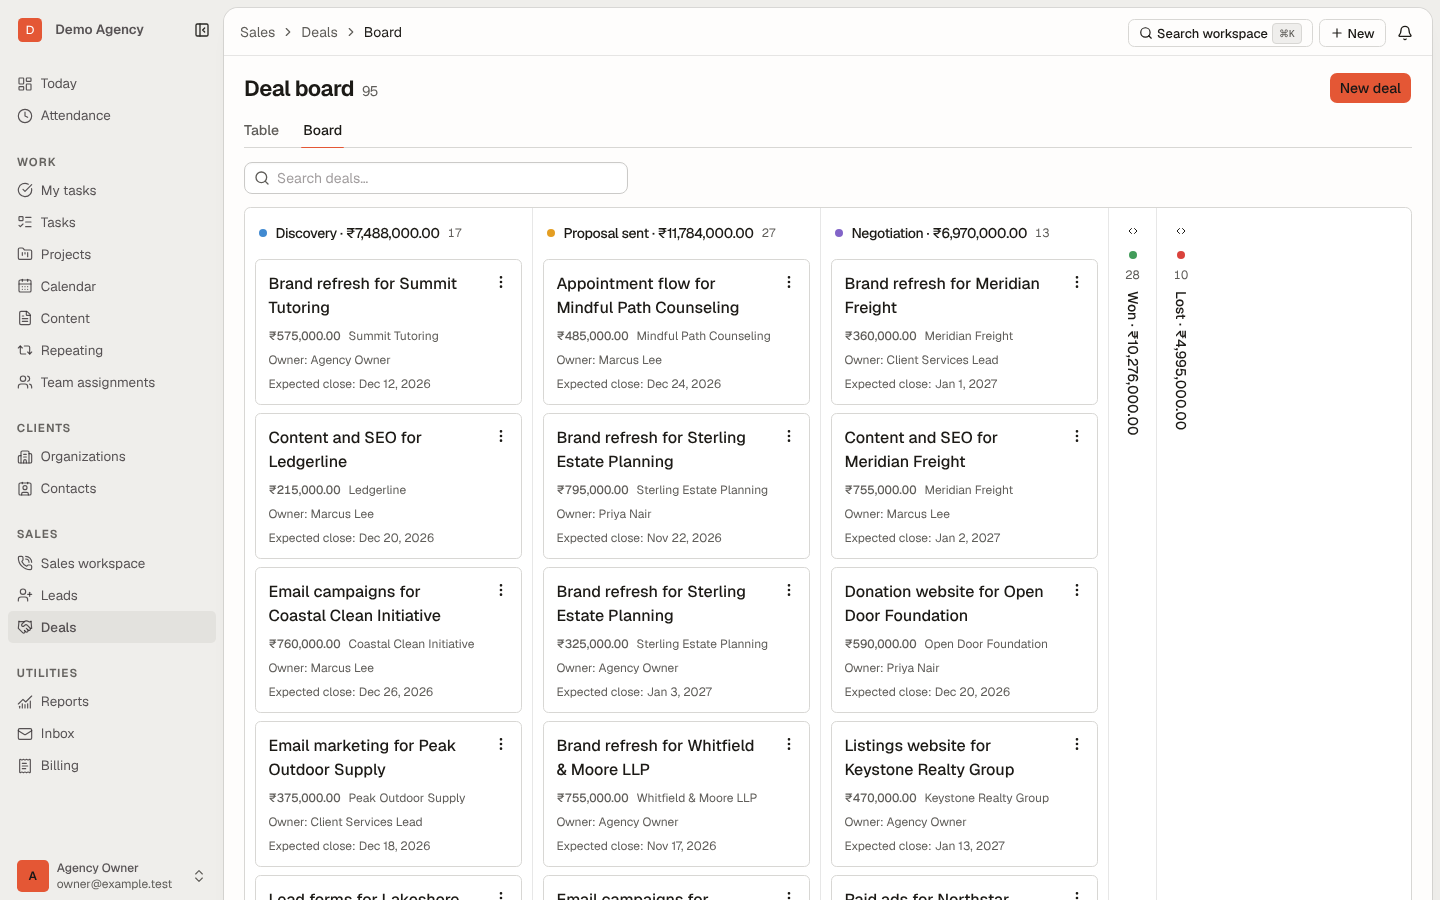
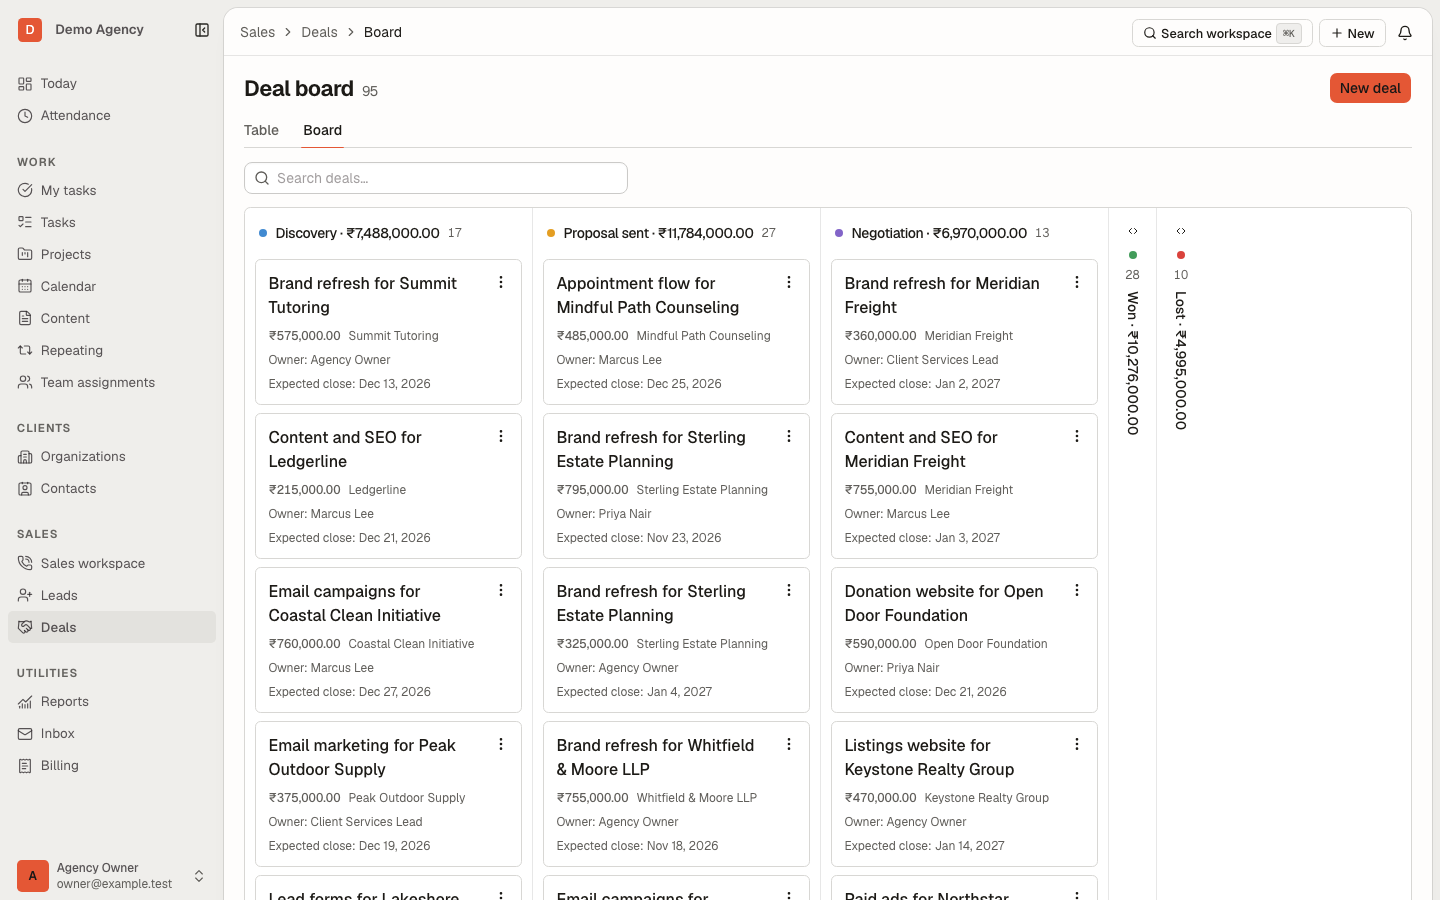
docs(readme): show the portal, portal links and sales settings
Retake every screenshot against the demo dataset and add the client
portal, a client's Billing tab with portal links, and Sales settings.
The capture script now reads record ids inside the page so the session
cookie and CSRF headers apply.

diff --git a/scripts/screenshots.ts b/scripts/screenshots.ts
@@ -1,6 +1,6 @@
 import { mkdirSync } from 'node:fs'
 import { join } from 'node:path'
-import { chromium, devices, type BrowserContext, type Page } from '@playwright/test'
+import { chromium, devices, type Browser, type BrowserContext, type Page } from '@playwright/test'
 import { isMain, runCli } from './lib/report'
 
 const BASE = process.env['SCREENSHOT_BASE_URL'] ?? 'http://localhost:3001'
@@ -27,12 +27,52 @@ async function shoot(page: Page, input: { readonly route: string; readonly name:
   console.log(`screenshots: ${input.name}`)
 }
 
+/** The client's Billing tab, with a fresh portal link when it has a contact to share with. */
+async function portalLink(page: Page, organizationId: string): Promise<string | undefined> {
+  await page.goto(`${BASE}/organizations/${organizationId}?tab=billing`, { waitUntil: 'load' })
+  const create = page.getByRole('button', { name: 'Create link' })
+  if ((await create.count()) === 0) return undefined
+  await create.click()
+  const code = page.locator('code').filter({ hasText: '/portal/' }).first()
+  await code.waitFor({ timeout: 10_000 }).catch(() => undefined)
+  return (await code.textContent())?.trim()
+}
+
+/** The portal as the client sees it: a separate context, with no staff session. */
+async function shootPortal(browser: Browser, url: string): Promise<void> {
+  const context = await browser.newContext({ viewport: { width: 1440, height: 900 } })
+  const page = await context.newPage()
+  await page.goto(url, { waitUntil: 'load' })
+  await page.addStyleTag({ content: HIDE_DEV_UI })
+  await page.waitForTimeout(SETTLE_MS)
+  await page.screenshot({ path: join(OUT, 'portal.png') })
+  console.log('screenshots: portal')
+  await context.close()
+}
+
+/** The client hub, the Billing tab with a fresh link, the portal itself and type settings. */
+async function shootClientSurfaces(browser: Browser, desktop: Page): Promise<void> {
+  const clientId = await clientWithWork(desktop)
+  await shoot(desktop, { route: `/organizations/${clientId}`, name: 'client' })
+  const link = await portalLink(desktop, clientId)
+  await shoot(desktop, { route: `/organizations/${clientId}?tab=billing`, name: 'portal-card' })
+  if (link !== undefined) await shootPortal(browser, link)
+  await shoot(desktop, { route: '/settings/sales', name: 'sales-settings' })
+}
+
+/** Record ids from a product endpoint, fetched inside the page so the session cookie and CSRF headers apply. */
+async function recordsOf(page: Page, path: string): Promise<{ id: string }[]> {
+  return page.evaluate(async (url) => {
+    const response = await fetch(url)
+    const body = (await response.json()) as { data?: { records?: { id: string }[] } | { id: string }[] }
+    const data = body.data
+    return Array.isArray(data) ? data : (data?.records ?? [])
+  }, path)
+}
+
 /** The first task whose page lists logged time, so the detail screenshot shows a full task. */
 async function taskWithTime(page: Page): Promise<string> {
-  const response = await page.request.get(`${BASE}/api/v1/tasks?limit=40`)
-  const body = (await response.json()) as { data: { records?: { id: string }[] } | { id: string }[] }
-  const records = Array.isArray(body.data) ? body.data : (body.data.records ?? [])
-  for (const task of records) {
+  for (const task of await recordsOf(page, '/api/v1/tasks?limit=40')) {
     await page.goto(`${BASE}/tasks/${task.id}`, { waitUntil: 'load' })
     await page.waitForTimeout(800)
     if ((await page.locator('section[aria-label="Time"] li').count()) > 0) return task.id
@@ -42,10 +82,7 @@ async function taskWithTime(page: Page): Promise<string> {
 
 /** A client with projects and deals, so the client screenshot shows a full hub. */
 async function clientWithWork(page: Page): Promise<string> {
-  const response = await page.request.get(`${BASE}/api/v1/organizations?limit=40`)
-  const body = (await response.json()) as { data: { records?: { id: string }[] } | { id: string }[] }
-  const records = Array.isArray(body.data) ? body.data : (body.data.records ?? [])
-  for (const organization of records) {
+  for (const organization of await recordsOf(page, '/api/v1/organizations?limit=40')) {
     await page.goto(`${BASE}/organizations/${organization.id}`, { waitUntil: 'load' })
     await page.waitForTimeout(500)
     if (
@@ -76,7 +113,7 @@ export async function main(): Promise<number> {
   ]) {
     await shoot(desktop, shot)
   }
-  await shoot(desktop, { route: `/organizations/${await clientWithWork(desktop)}`, name: 'client' })
+  await shootClientSurfaces(browser, desktop)
   await shoot(desktop, { route: `/tasks/${await taskWithTime(desktop)}`, name: 'task-detail' })
   const phone = await signIn(await browser.newContext({ ...devices['iPhone 13'] }))
   await shoot(phone, { route: '/', name: 'mobile-dashboard' })

diff --git a/README.md b/README.md
@@ -28,17 +28,19 @@ Each deployment serves its own tenants, defined outside this repository (see [`t
 
 Taken from the demo workspace, where every name, company and number is fictional. `pnpm docs:screenshots` retakes them from a running app that holds the demo data.
 
-| Today                                                                               | Tasks                                                                           |
-| ----------------------------------------------------------------------------------- | ------------------------------------------------------------------------------- |
-| ![Today with attendance and the person's queues](docs/screenshots/dashboard.png)    | ![Tasks table with view tabs](docs/screenshots/tasks.png)                       |
-| **Client**                                                                          | **Leads board**                                                                 |
-| ![A client with billing, projects, contacts and deals](docs/screenshots/client.png) | ![Lead board by stage](docs/screenshots/leads-board.png)                        |
-| **Deals board**                                                                     | **Task board**                                                                  |
-| ![Deal board by stage](docs/screenshots/deals-board.png)                            | ![Task board by stage](docs/screenshots/tasks-board.png)                        |
-| **Figures**                                                                         | **Task with logged time**                                                       |
-| ![Figures with pipeline charts](docs/screenshots/figures.png)                       | ![A task with its properties and logged time](docs/screenshots/task-detail.png) |
-| **Settings**                                                                        |                                                                                 |
-| ![Settings with every group in view](docs/screenshots/settings.png)                 |                                                                                 |
+| Today                                                                               | Tasks                                                                                             |
+| ----------------------------------------------------------------------------------- | ------------------------------------------------------------------------------------------------- |
+| ![Today with attendance and the person's queues](docs/screenshots/dashboard.png)    | ![Tasks table with view tabs](docs/screenshots/tasks.png)                                         |
+| **Client**                                                                          | **Leads board**                                                                                   |
+| ![A client with billing, projects, contacts and deals](docs/screenshots/client.png) | ![Lead board by stage](docs/screenshots/leads-board.png)                                          |
+| **Deals board**                                                                     | **Task board**                                                                                    |
+| ![Deal board by stage](docs/screenshots/deals-board.png)                            | ![Task board by stage](docs/screenshots/tasks-board.png)                                          |
+| **Figures**                                                                         | **Task with logged time**                                                                         |
+| ![Figures with pipeline charts](docs/screenshots/figures.png)                       | ![A task with its properties and logged time](docs/screenshots/task-detail.png)                   |
+| **Client portal**                                                                   | **Portal links**                                                                                  |
+| ![Client portal with a client's project progress](docs/screenshots/portal.png)      | ![Portal links on a client's Billing tab](docs/screenshots/portal-card.png)                       |
+| **Settings**                                                                        | **Sales settings**                                                                                |
+| ![Settings with every group in view](docs/screenshots/settings.png)                 | ![Lead rules and email templates on the Sales settings page](docs/screenshots/sales-settings.png) |
 
 <p align="center">
   <img src="docs/screenshots/mobile-dashboard.png" alt="Dashboard on a phone" width="260">

diff --git a/docs/backlog/ux.md b/docs/backlog/ux.md
@@ -15,6 +15,4 @@ Reference files are cited to show observed behavior. Copy code only from MIT or 
 ### 40. Open product work from the 2026-11-05 session
 
 - Automation rules (roadmap wave 11, design in `docs/design/quotes-invoices-portal-rules-audit.md#automation-rules`): not started.
-- README screenshots: retake with `scripts/screenshots.ts` to show the client portal, the portal card on a client's Billing tab and the new type settings; the feature table already lists the portal.
-- UX 34 needs one run of the mobile (WebKit) Playwright project to close.
 - Server error messages are English in Spanish workspaces; a shared approach is needed before changing 50 action files.
